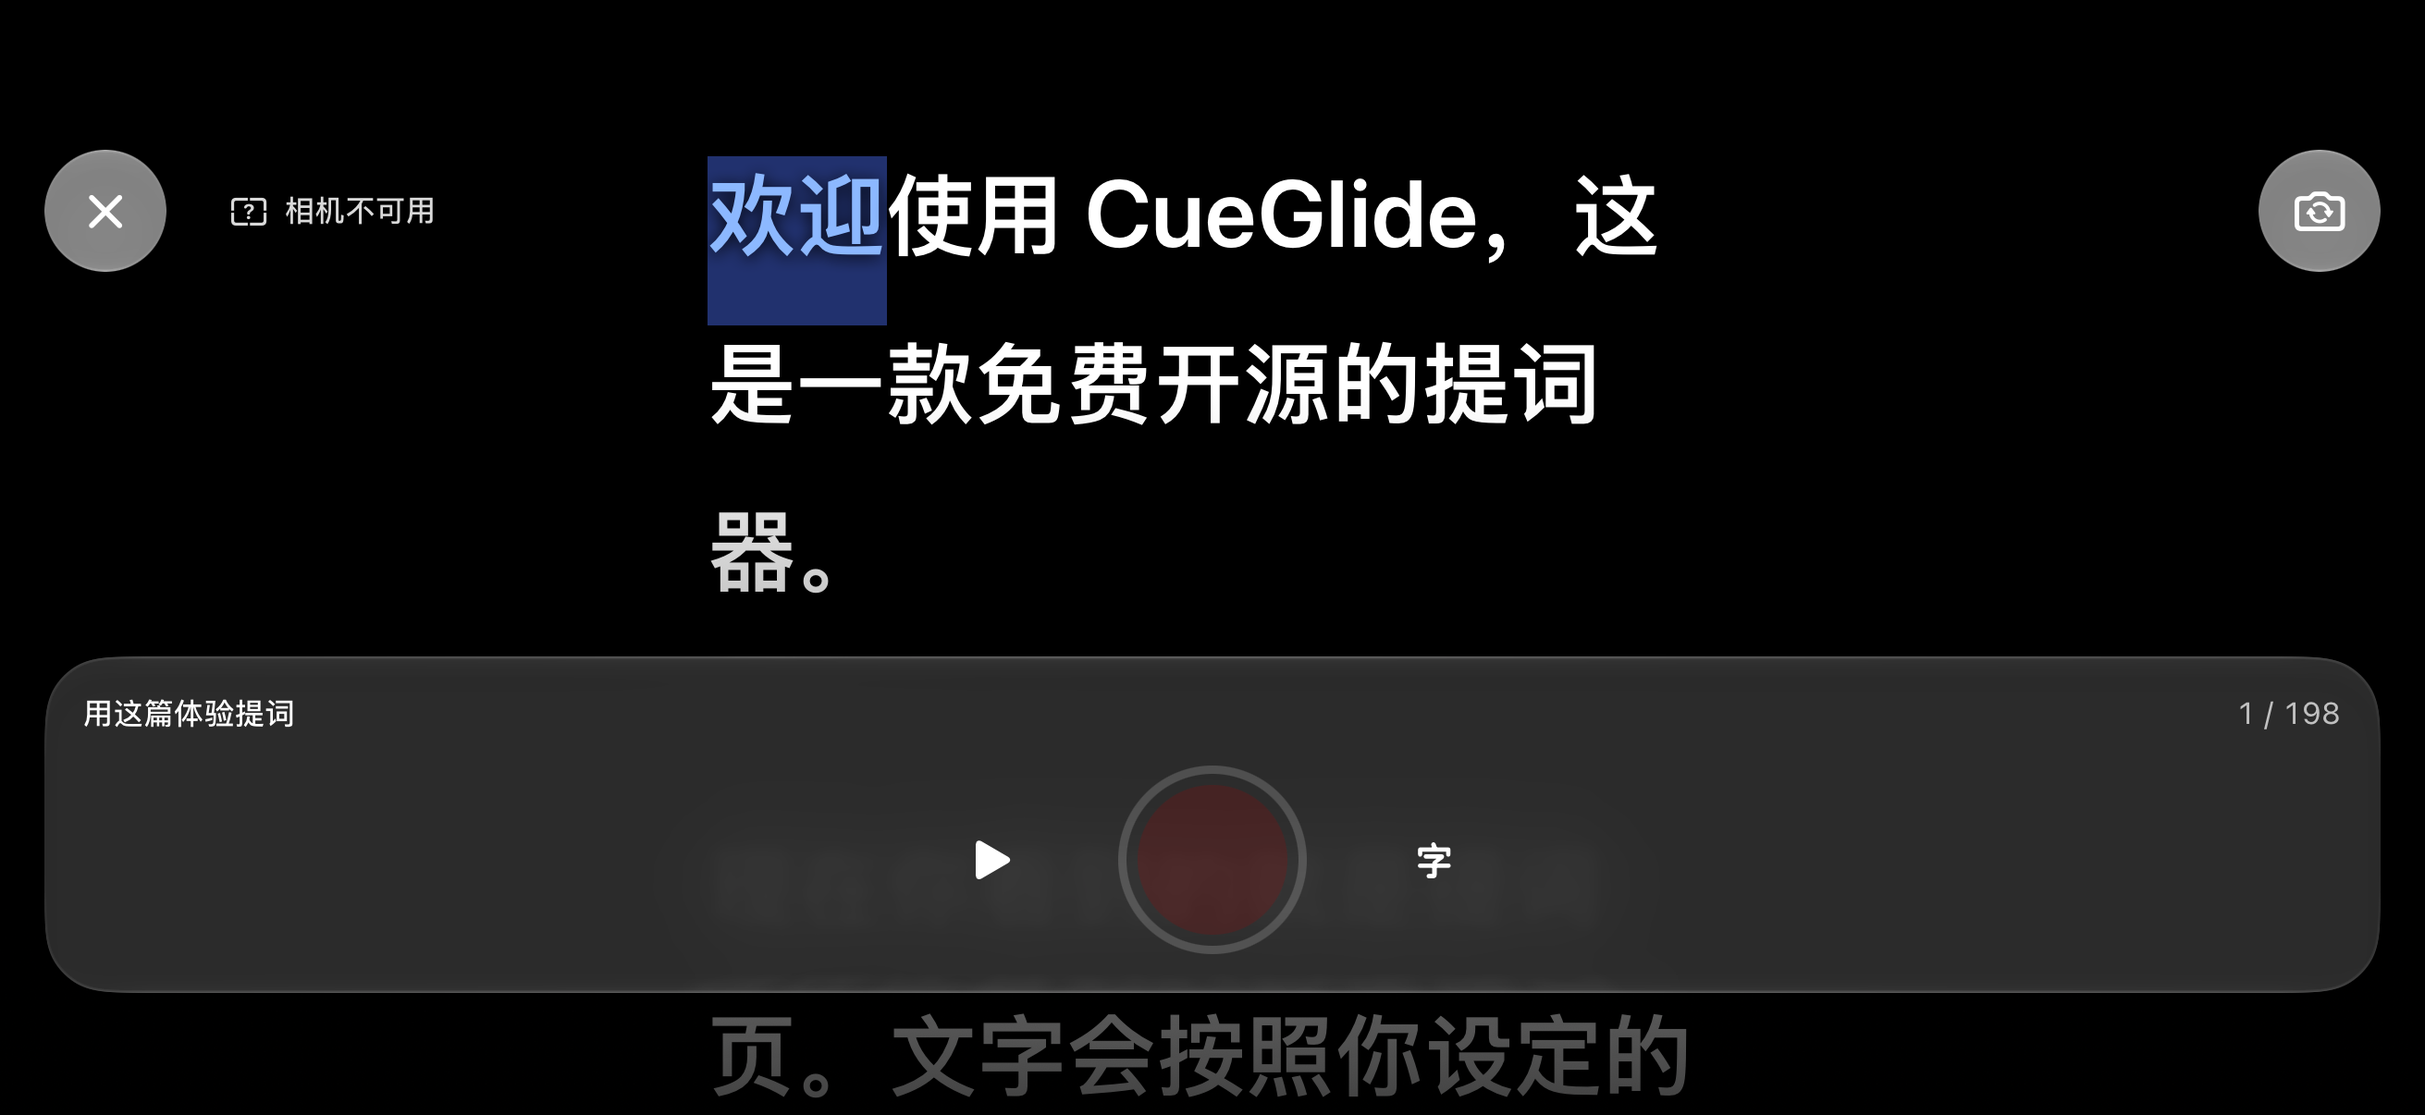
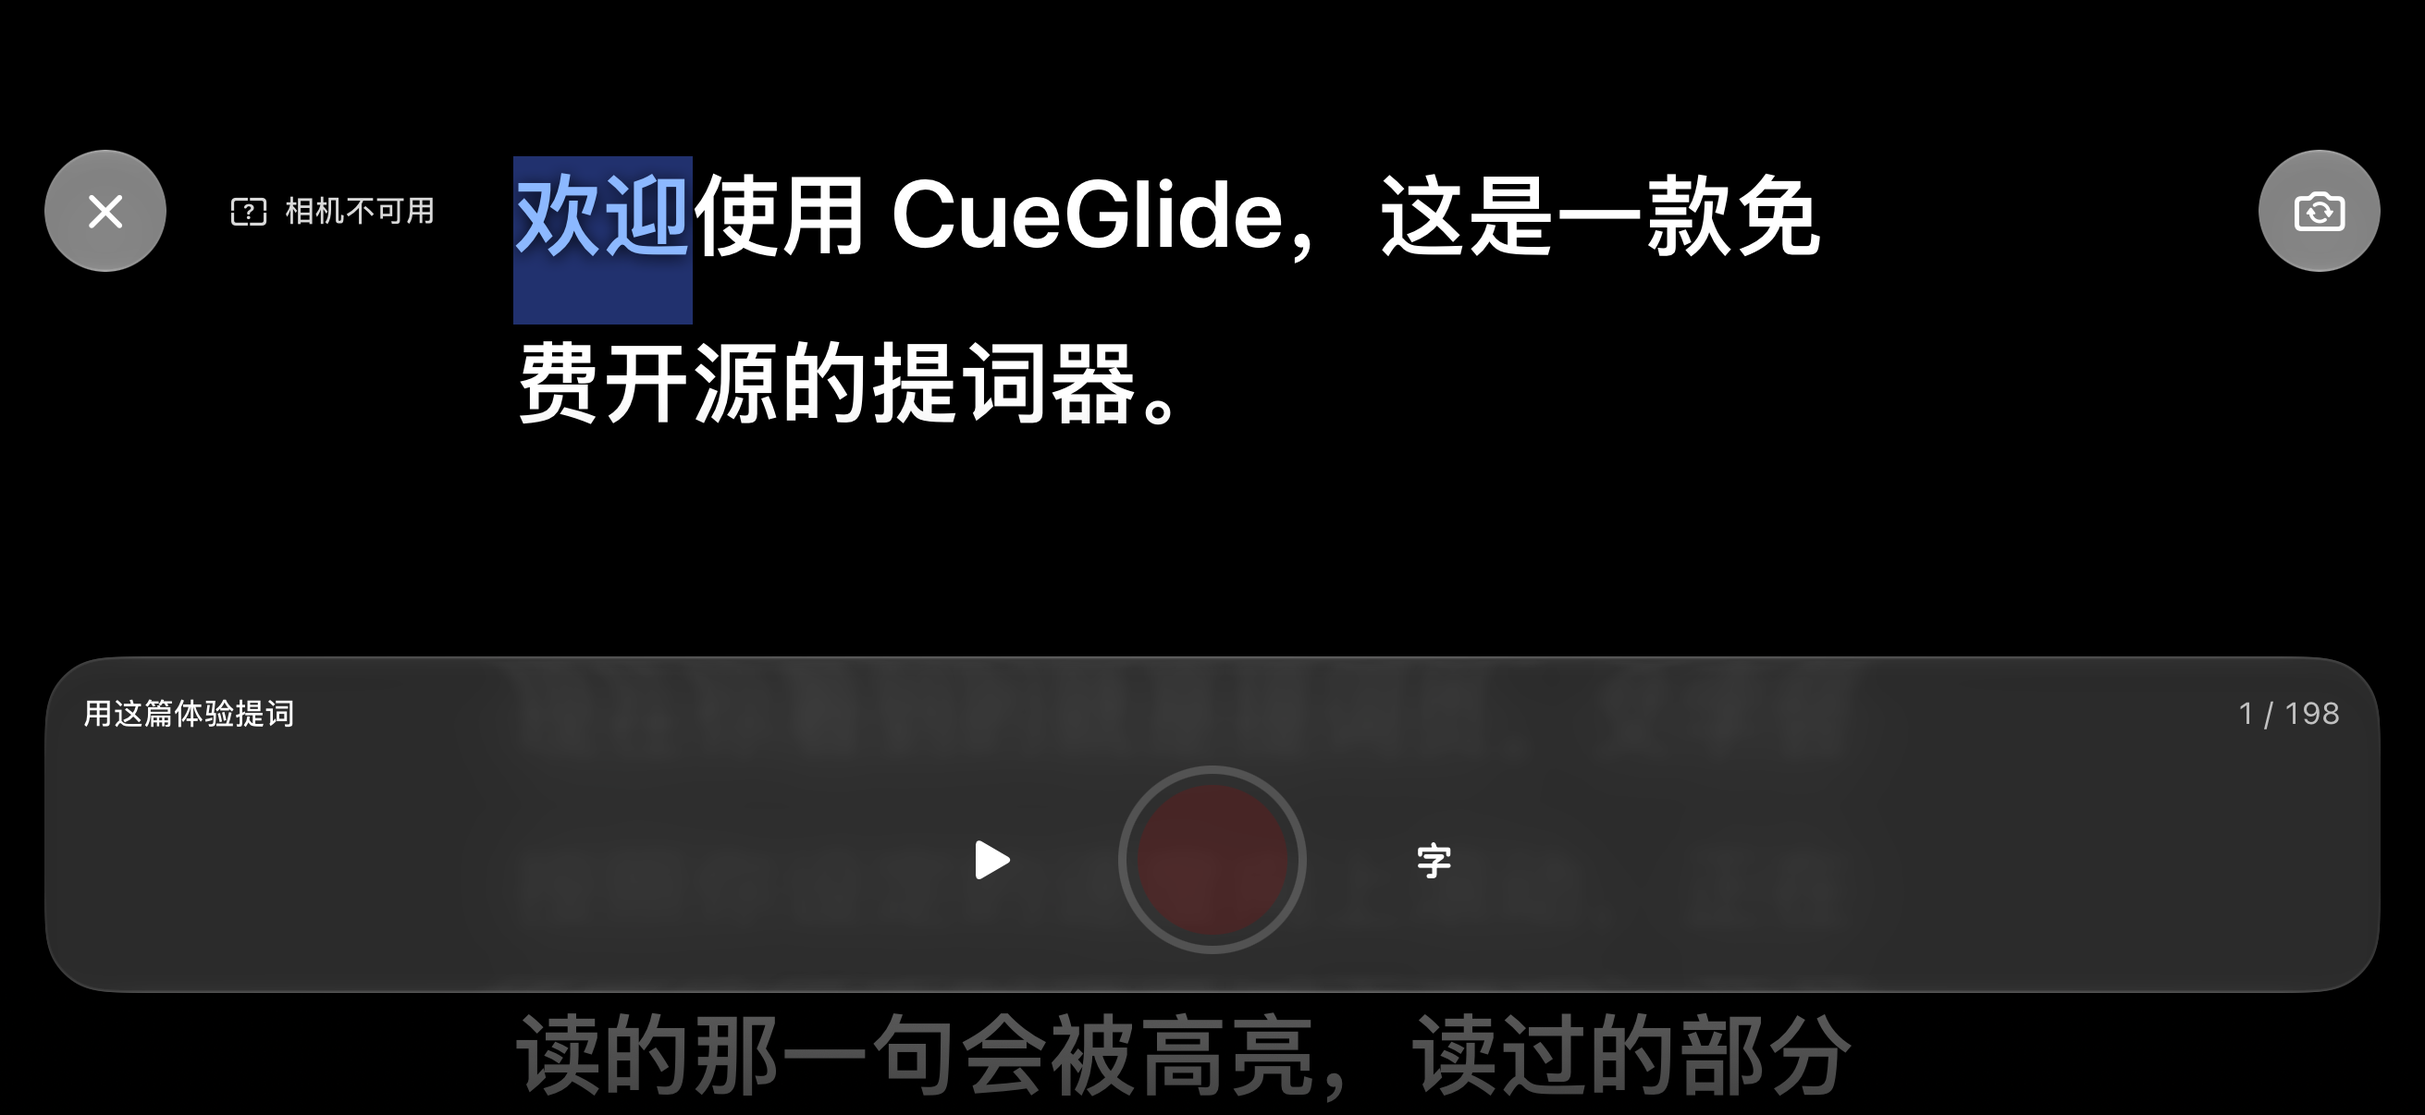
feat: 0.6.4 按 iPhone Duo 要求改用尺寸类适配
- 提词页布局判断从「宽 > 高」改为垂直尺寸类：Duo 内屏横放是 regular × regular，旧逻辑会误判成横屏手机，把阅读列压到 420、阅读线抬到 22%
- 阅读线 76pt 绝对下限改为始终生效，兜住 Duo 半折叠「宽而矮、尺寸类仍 regular」的姿态（按 14% 只有 59pt，会被顶部按钮压住）
- 控制条紧凑模式同步改用尺寸类判断
- 新增 4 个 Duo 单测：内屏横竖姿态列宽保持 560、外屏走手机规则、半折叠下限、尺寸类切换即时收窄
- 新增 Duo 外屏（466×678）与 iPad 宽屏（744×1133）验证截图，接进设计说明多设备章节
- 验证：42 单测 + 3 UI 测试全过；Duo 外屏实机截图核对通过；iPad 宽屏列宽 560 居中；iPhone 横屏提词页截图与改动前逐像素一致

Changed region(s): [[0.1854, 0.1227, 0.7723, 0.3988], [0.2162, 0.8897, 0.7723, 0.9818], [0.278, 0.4602, 0.3398, 0.5522]]

diff --git a/CueGlideTests/PrompterRendererTests.swift b/CueGlideTests/PrompterRendererTests.swift
@@ -26,13 +26,21 @@ final class PrompterRendererTests: XCTestCase {
     }
 
     /// 模拟一次真实布局：宿主容器拿到尺寸，文本视图撑满，然后重新测量。
-    private func layout(_ renderer: PrompterRenderer, width: CGFloat, height: CGFloat) {
+    ///
+    /// `isCompactHeight` 对应垂直尺寸类：手机横屏为 true；Duo 内屏无论横竖都是 false。
+    private func layout(
+        _ renderer: PrompterRenderer,
+        width: CGFloat,
+        height: CGFloat,
+        isCompactHeight: Bool = false
+    ) {
         let size = CGSize(width: width, height: height)
         renderer.hostView.frame = CGRect(origin: .zero, size: size)
         renderer.hostView.layoutIfNeeded()
         if renderer.textView.bounds.width < 1 || renderer.textView.bounds.height < 1 {
             renderer.textView.frame = CGRect(origin: .zero, size: size)
         }
+        renderer.updateTraits(isCompactHeight: isCompactHeight)
         renderer.setViewportHeight(height)
         renderer.updateWidth(width)
     }
@@ -47,19 +55,19 @@ final class PrompterRendererTests: XCTestCase {
 
     func testLandscapeAnchorRaisedTo22Percent() {
         let renderer = makeRenderer()
-        layout(renderer, width: 852, height: 393)
+        layout(renderer, width: 852, height: 393, isCompactHeight: true)
         XCTAssertEqual(renderer.textView.textContainerInset.top, 393 * 0.22, accuracy: 0.5)
     }
 
     func testLandscapeAnchorHas76PointFloor() {
         let renderer = makeRenderer()
-        layout(renderer, width: 800, height: 300)
+        layout(renderer, width: 800, height: 300, isCompactHeight: true)
         XCTAssertEqual(renderer.textView.textContainerInset.top, 76, accuracy: 0.5)
     }
 
     func testBottomInsetKeepsAtLeastOneLine() {
         let renderer = makeRenderer()
-        layout(renderer, width: 800, height: 120)
+        layout(renderer, width: 800, height: 120, isCompactHeight: true)
         XCTAssertGreaterThanOrEqual(renderer.textView.textContainerInset.bottom, 40)
     }
 
@@ -69,7 +77,7 @@ final class PrompterRendererTests: XCTestCase {
         var config = DisplayConfig.default
         config.horizontalInset = 28
         let renderer = makeRenderer(config: config)
-        layout(renderer, width: 852, height: 393)
+        layout(renderer, width: 852, height: 393, isCompactHeight: true)
 
         // 两侧各 28 + (852 - 420) / 2 = 244，把一行压到约 12 个字
         XCTAssertEqual(renderer.textView.textContainerInset.left, 244, accuracy: 0.5)
@@ -235,5 +243,73 @@ final class PrompterRendererTests: XCTestCase {
         XCTAssertFalse(renderer.isMeasured)
         XCTAssertEqual(renderer.contentY(forToken: 2), 0)
         XCTAssertEqual(renderer.tokenIndex(atViewportY: 100), 0)
+    }
+
+    // MARK: - iPhone Duo
+
+    /// 内屏无论竖放还是横放都是 regular × regular，横放不能按「横屏手机」把列宽压到 420。
+    func testDuoInnerScreenKeepsWideColumnInBothPoses() {
+        var config = DisplayConfig.default
+        config.horizontalInset = 28
+
+        let upright = makeRenderer(config: config)
+        layout(upright, width: 626, height: 890, isCompactHeight: false)
+        XCTAssertEqual(
+            upright.textView.textContainerInset.left,
+            28 + (626 - 560) / 2,
+            accuracy: 0.5,
+            "内屏竖放应按 560 列宽留白"
+        )
+        XCTAssertEqual(upright.textView.textContainerInset.top, 890 * 0.14, accuracy: 0.5)
+
+        let sideways = makeRenderer(config: config)
+        layout(sideways, width: 890, height: 626, isCompactHeight: false)
+        XCTAssertEqual(
+            sideways.textView.textContainerInset.left,
+            28 + (890 - 560) / 2,
+            accuracy: 0.5,
+            "内屏横放仍是 regular，列宽应保持 560 而不是 420"
+        )
+        XCTAssertEqual(
+            sideways.textView.textContainerInset.top,
+            626 * 0.14,
+            accuracy: 0.5,
+            "regular 高度不该把阅读线抬到 22%"
+        )
+    }
+
+    /// 外屏接近普通 iPhone 竖屏，宽度够不到 560 上限，不该额外加留白。
+    func testDuoOuterScreenUsesPhoneRules() {
+        var config = DisplayConfig.default
+        config.horizontalInset = 28
+        let renderer = makeRenderer(config: config)
+        layout(renderer, width: 466, height: 678, isCompactHeight: false)
+
+        XCTAssertEqual(renderer.textView.textContainerInset.left, 28, accuracy: 0.5)
+        XCTAssertEqual(renderer.textView.textContainerInset.top, 678 * 0.14, accuracy: 0.5)
+    }
+
+    /// 半折叠是「宽而矮、尺寸类仍是 regular」，阅读线必须靠绝对下限托住。
+    func testDuoHalfFoldedKeepsReadingLineAbove76() {
+        let renderer = makeRenderer()
+        layout(renderer, width: 890, height: 420, isCompactHeight: false)
+        XCTAssertEqual(renderer.textView.textContainerInset.top, 76, accuracy: 0.5)
+    }
+
+    /// 尺寸类切到紧凑后，同一份稿子的阅读列要立刻收窄（折叠姿态变化时走这条路径）。
+    func testTraitChangeNarrowsColumnWithoutRelayout() {
+        var config = DisplayConfig.default
+        config.horizontalInset = 28
+        let renderer = makeRenderer(config: config)
+        layout(renderer, width: 890, height: 626, isCompactHeight: false)
+        XCTAssertEqual(renderer.textView.textContainerInset.left, 28 + (890 - 560) / 2, accuracy: 0.5)
+
+        renderer.updateTraits(isCompactHeight: true)
+        XCTAssertEqual(
+            renderer.textView.textContainerInset.left,
+            28 + (890 - 420) / 2,
+            accuracy: 0.5,
+            "切到紧凑高度后应收窄到 420 列宽"
+        )
     }
 }

diff --git a/CueGlide/Features/Prompter/PrompterView.swift b/CueGlide/Features/Prompter/PrompterView.swift
@@ -8,6 +8,7 @@ struct PrompterView: View {
     @Environment(\.dismiss) private var dismiss
     @Environment(AppSettings.self) private var appSettings
     @State private var dragStartToken: Int = 0
+    @Environment(\.verticalSizeClass) private var verticalSizeClass
     private let autoStartVoice: Bool
 
     init(script: Script, display: DisplayConfig, scroll: ScrollConfig, autoStartVoice: Bool = false) {
@@ -18,6 +19,12 @@ struct PrompterView: View {
     private var background: Color {
         Color(uiColor: viewModel.display.palette.background)
     }
+
+    /// 紧凑高度＝手机横屏或半折叠这类矮视口。
+    ///
+    /// 用尺寸类而不是宽高比：Duo 内屏在横竖两个姿态下都是 regular × regular，
+    /// 按宽高比会被误判成「横屏手机」，从而错误地收窄阅读列。
+    private var isCompactHeight: Bool { verticalSizeClass == .compact }
 
     var body: some View {
         GeometryReader { proxy in
@@ -48,6 +55,7 @@ struct PrompterView: View {
                 viewModel.onRequestExit = { dismiss() }
                 viewModel.startRemote()
                 viewModel.configureVoice(localeIdentifier: appSettings.speechLocaleIdentifier)
+                viewModel.updateTraits(isCompactHeight: isCompactHeight)
                 viewModel.updateViewport(proxy.size)
                 UIApplication.shared.isIdleTimerDisabled = true
                 if ProcessInfo.processInfo.arguments.contains("-autoPlay") {
@@ -69,6 +77,9 @@ struct PrompterView: View {
             }
             .onChange(of: proxy.size) { _, newSize in
                 viewModel.updateViewport(newSize)
+            }
+            .onChange(of: verticalSizeClass) { _, _ in
+                viewModel.updateTraits(isCompactHeight: isCompactHeight)
             }
         }
         .ignoresSafeArea()
@@ -203,18 +214,17 @@ struct PrompterView: View {
             Spacer()
 
             if viewModel.controlsVisible {
-                controlBar(isLandscape: size.width > size.height)
+                controlBar(compact: isCompactHeight)
                     .padding(.horizontal, 16)
-                    .padding(.bottom, size.width > size.height ? 12 : 44)
+                    .padding(.bottom, isCompactHeight ? 12 : 44)
                     .transition(.move(edge: .bottom).combined(with: .opacity))
             }
         }
         .foregroundStyle(Color(uiColor: viewModel.display.palette.foreground))
     }
 
-    private func controlBar(isLandscape: Bool) -> some View {
-        let compact = isLandscape
-        return VStack(spacing: compact ? 6 : 9) {
+    private func controlBar(compact: Bool) -> some View {
+        VStack(spacing: compact ? 6 : 9) {
             HStack(spacing: 6) {
                 if !compact {
                     Text(viewModel.script.title.isEmpty ? "未命名台本" : viewModel.script.title)

diff --git a/CueGlide/Core/PromptEngine/PrompterRenderer.swift b/CueGlide/Core/PromptEngine/PrompterRenderer.swift
@@ -199,27 +199,41 @@ final class PrompterRenderer {
     private let portraitReadingColumn: CGFloat = 560
     private let landscapeReadingColumn: CGFloat = 420
 
+    /// 是否为紧凑高度（手机横屏、半折叠等矮视口）。
+    ///
+    /// 用尺寸类而不是「宽 > 高」判断，是 Apple 对 iPhone Duo 的明确要求：
+    /// 内屏无论竖放还是横放都是 regular × regular，按宽高比会把横放的内屏
+    /// 误判成「手机横屏」，于是把阅读列错误地压到 420、把阅读线抬到 22%。
+    private(set) var isCompactHeight = false
+
+    /// 尺寸类变化时重算内边距并重新测量。
+    func updateTraits(isCompactHeight: Bool) {
+        guard isCompactHeight != self.isCompactHeight else { return }
+        self.isCompactHeight = isCompactHeight
+        textView.textContainerInset = insets(for: viewportHeight, width: textView.bounds.width)
+        measure()
+    }
+
     /// 阅读线以上留出整段空白，保证第 0 个词也落在阅读线上而不是顶到状态栏。
     ///
-    /// 横屏时屏幕高度只有竖屏的一半左右，按同一比例算会把首行顶到按钮底下，
-    /// 所以横屏抬到至少 22%，并给一个绝对下限。
+    /// 紧凑高度下屏幕只剩一半，按同一比例算会把首行顶到按钮底下，
+    /// 所以抬到至少 22%，并给一个绝对下限。
     private func insets(for height: CGFloat, width: CGFloat = 0) -> UIEdgeInsets {
         let availableWidth = width > 1 ? width : textView.bounds.width
-        let isLandscape = availableWidth > height && height > 0
 
-        let ratio = isLandscape
+        let ratio = isCompactHeight
             ? max(config.readingLine.viewportRatio, 0.22)
             : config.readingLine.viewportRatio
 
         var anchor: CGFloat = height > 0 ? height * ratio : 120
-        if isLandscape {
-            anchor = max(anchor, 76)
-        }
+        // 顶部按钮占 46 + 44，任何姿态下都要给首行留出这段。
+        // Duo 半折叠是「宽而矮、但尺寸类仍是 regular」的形态，只有这条能兜住。
+        anchor = max(anchor, 76)
 
         // 底部至少留一行，避免最后一段永远滚不上来
         let bottom = max(height - anchor - 40, 40)
 
-        let maxColumn = isLandscape ? landscapeReadingColumn : portraitReadingColumn
+        let maxColumn = isCompactHeight ? landscapeReadingColumn : portraitReadingColumn
         let extraSide = max((availableWidth - maxColumn) / 2, 0)
         let side = config.horizontalInset + extraSide
 

diff --git a/CueGlide/Features/Prompter/PrompterViewModel.swift b/CueGlide/Features/Prompter/PrompterViewModel.swift
@@ -92,6 +92,17 @@ final class PrompterViewModel {
         renderer.highlight(currentToken: lastKnownToken)
     }
 
+    /// 尺寸类变化时同步给渲染层。
+    ///
+    /// 布局判断只认尺寸类：Duo 内屏横放时宽高比像「横屏手机」，但尺寸类仍是
+    /// regular × regular，应该继续用宽屏列宽，而不是压到 420。
+    func updateTraits(isCompactHeight: Bool) {
+        renderer.updateTraits(isCompactHeight: isCompactHeight)
+        guard renderer.isMeasured else { return }
+        syncMetrics()
+        renderer.scroll(toTokenPosition: Double(lastKnownToken), viewportHeight: viewportSize.height)
+    }
+
     private func syncMetrics() {
         engine.pointsPerToken = max(renderer.metrics.pointsPerToken, 1)
         engine.unitsPerToken = max(renderer.metrics.unitsPerToken, 0.1)

diff --git a/CueGlide/Features/Settings/SettingsView.swift b/CueGlide/Features/Settings/SettingsView.swift
@@ -363,7 +363,7 @@ struct SettingsView: View {
 
 extension Bundle {
     var appVersion: String {
-        let short = infoDictionary?["CFBundleShortVersionString"] as? String ?? "0.6.3"
+        let short = infoDictionary?["CFBundleShortVersionString"] as? String ?? "0.6.4"
         let build = infoDictionary?["CFBundleVersion"] as? String ?? "1"
         return "\(short) (\(build))"
     }

diff --git a/docs/设计说明.md b/docs/设计说明.md
@@ -348,13 +348,21 @@ ScrollConfig（滚动参数）
 | 外屏 | 5.4 英寸，1398×2034 @460ppi，逻辑 466×678pt |
 | 形态 | 书本式内折，支持半折叠悬停 |
 
-适配方式是「按宽度响应」，不写死机型判断：
+适配不写死机型，全部按宽度与尺寸类响应：
 
 1. 列表页内容最大宽度 720–780pt 并居中。
 2. 模板页使用自适应网格，竖屏 2 列、展开约 3 列、iPad 横屏 4–5 列。
-3. 提词页阅读列最大 560pt。
+3. 提词页阅读列：regular 高度（内屏、iPad）用 560pt，紧凑高度（手机横屏）用 420pt。
 4. 折叠切换时保持进度：坐标是词索引，重排后按词重新定位。
 5. 半折叠悬停是提词器的天然形态——上半屏读稿，下半屏放控制。此布局在规划中。
+
+**为什么用尺寸类而不是界面方向**：Apple 对 Duo 的要求是布局决策只认尺寸类。内屏在横竖两个姿态下都是 regular × regular，用「宽 > 高」判断会把横放的内屏当成横屏手机，于是把阅读列压到 420、阅读线抬到 22%，白白浪费 7.6 英寸的屏幕；反过来，半折叠是「宽而矮、尺寸类仍是 regular」，比例算出来的阅读线只有 59pt，会被顶部按钮压住，所以 76pt 的绝对下限必须始终生效。
+
+验证方式：外屏用模拟器实机截图（466×678）；内屏与半折叠用单元测试按 626×890、890×626、890×420 精确断言。内屏展开需要在 Xcode 的 Device Hub 里手动操作，命令行没有折叠控制接口。
+
+![Duo 外屏提词页](screenshots/18-Duo外屏-提词页.png)
+
+![iPad 宽屏提词页](screenshots/19-iPad宽屏-提词页.png)
 
 ### iPad
 

diff --git a/CHANGELOG.md b/CHANGELOG.md
@@ -2,6 +2,27 @@
 
 本项目遵循 [语义化版本](https://semver.org/lang/zh-CN/)，格式参考 [Keep a Changelog](https://keepachangelog.com/zh-CN/1.0.0/)。
 
+## [0.6.4] - 2026-10-30
+
+按 Apple 对 iPhone Duo 的要求，把提词页的布局判断从宽高比改成尺寸类。
+
+### 变更
+
+- 提词页布局分支改用垂直尺寸类（`verticalSizeClass`）判断，不再用「宽 > 高」推断横屏。Duo 内屏横放时宽高比像横屏手机，但尺寸类仍是 regular × regular，旧逻辑会把阅读列错误压到 420、阅读线抬到 22%，白白浪费 7.6 英寸的屏幕
+- 阅读线的 76pt 绝对下限改为始终生效。Duo 半折叠是「宽而矮、尺寸类仍 regular」的形态，只靠 22% 比例算出 59pt，首行会被顶部按钮压住
+- 控制条的紧凑模式同步改用尺寸类判断
+
+### 验证
+
+- 单元测试新增 4 个 Duo 用例：内屏横竖姿态列宽都保持 560、外屏走手机规则、半折叠阅读线不低于 76pt、尺寸类切换后即时收窄
+- Duo 外屏（466×678）模拟器实机截图核对：首行落在阅读线、左右留白正常、控制条完整
+- iPad 宽屏（744×1133，同为 regular × regular）截图核对：列宽 560 居中，两侧各留约 16%
+- iPhone 竖屏与横屏截图回归，布局未变
+
+### 说明
+
+- Duo 内屏的展开需要在 Xcode 的 Device Hub 里手动操作，命令行没有折叠控制接口；内屏布局由单元测试按 626×890 / 890×626 / 890×420 精确断言覆盖
+
 ## [0.6.3] - 2026-10-30
 
 补齐测试覆盖，并修掉两处编辑体验问题。
